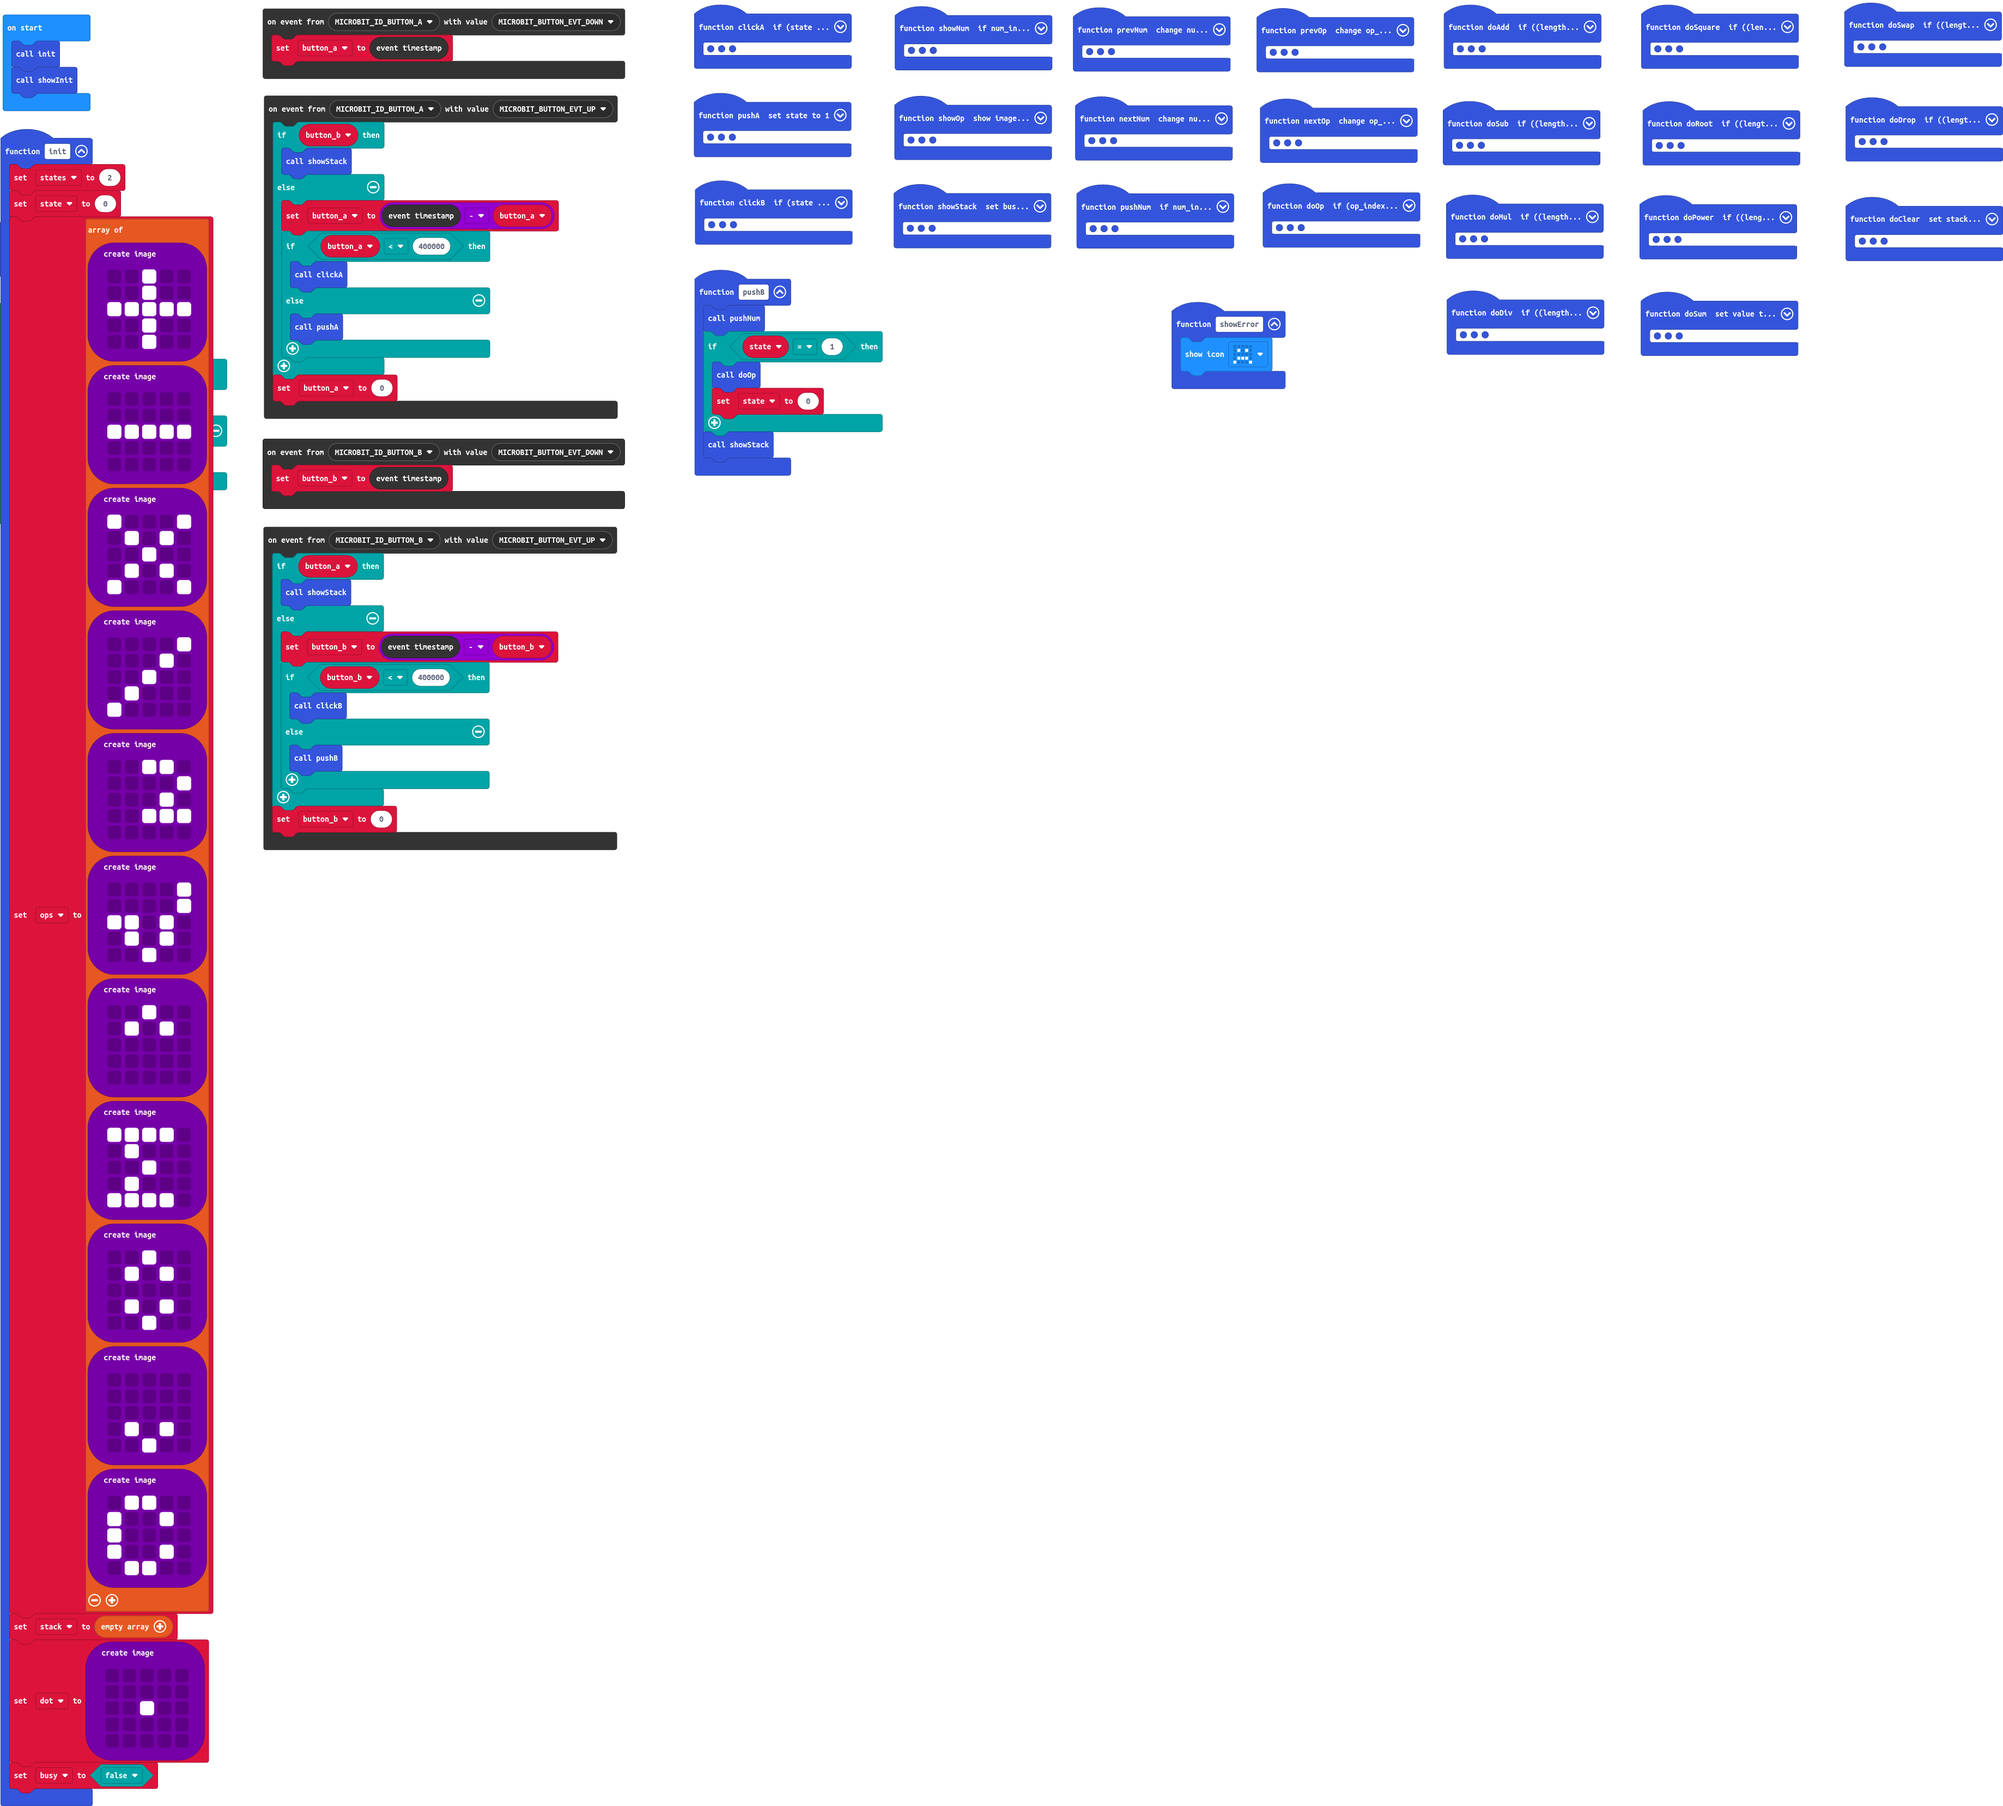
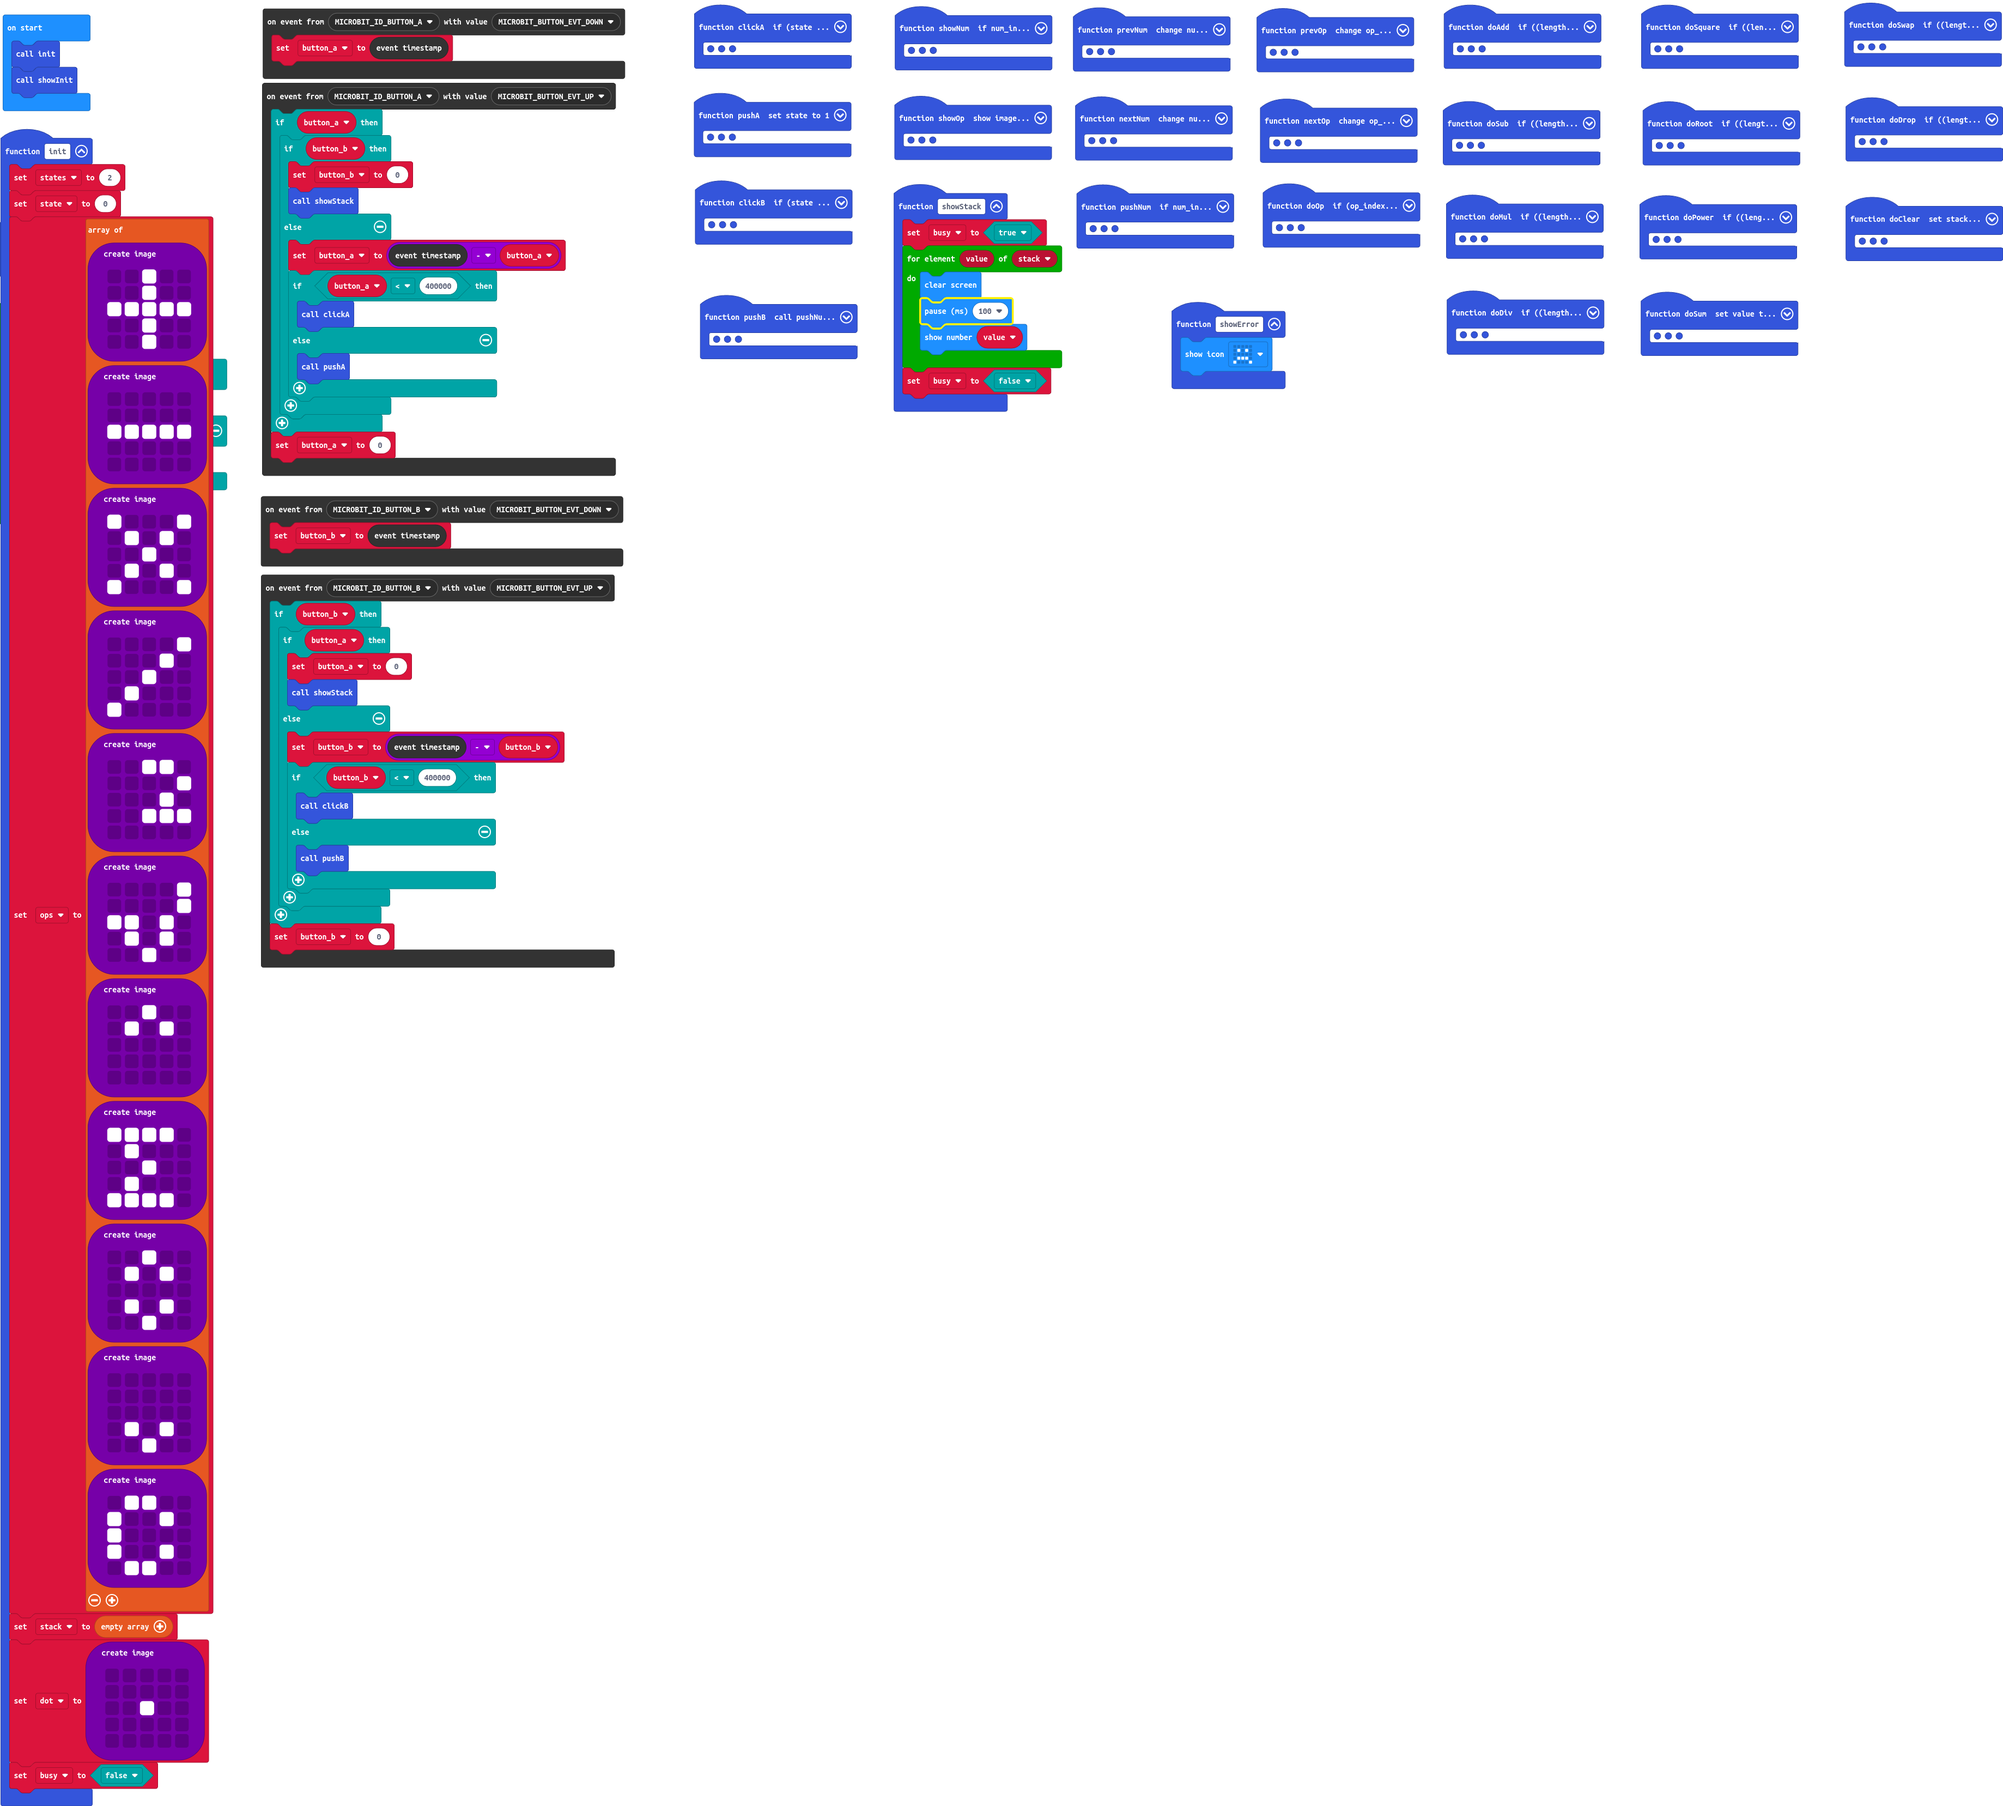
Add some minor tweaks and fixes

Changed region(s): [[0.124, 0.0311, 0.3101, 0.5594], [0.3411, 0.0932, 0.5272, 0.2797]]

diff --git a/main.ts b/main.ts
@@ -6,14 +6,17 @@ function doDrop () {
     }
 }
 control.onEvent(EventBusSource.MICROBIT_ID_BUTTON_A, EventBusValue.MICROBIT_BUTTON_EVT_UP, function () {
-    if (button_b) {
-        showStack()
-    } else {
-        button_a = control.eventTimestamp() - button_a
-        if (button_a < 400000) {
-            clickA()
+    if (button_a) {
+        if (button_b) {
+            button_b = 0
+            showStack()
         } else {
-            pushA()
+            button_a = control.eventTimestamp() - button_a
+            if (button_a < 400000) {
+                clickA()
+            } else {
+                pushA()
+            }
         }
     }
     button_a = 0
@@ -107,14 +110,17 @@ function pushA () {
     state = 1
 }
 control.onEvent(EventBusSource.MICROBIT_ID_BUTTON_B, EventBusValue.MICROBIT_BUTTON_EVT_UP, function () {
-    if (button_a) {
-        showStack()
-    } else {
-        button_b = control.eventTimestamp() - button_b
-        if (button_b < 400000) {
-            clickB()
+    if (button_b) {
+        if (button_a) {
+            button_a = 0
+            showStack()
         } else {
-            pushB()
+            button_b = control.eventTimestamp() - button_b
+            if (button_b < 400000) {
+                clickB()
+            } else {
+                pushB()
+            }
         }
     }
     button_b = 0
@@ -323,6 +329,8 @@ function doPower () {
 function showStack () {
     busy = true
     for (let value of stack) {
+        basic.clearScreen()
+        basic.pause(100)
         basic.showNumber(value)
     }
     busy = false
@@ -338,8 +346,8 @@ let value2 = 0
 let value1 = 0
 let op_index = 0
 let ops: Image[] = []
-let button_a = 0
 let button_b = 0
+let button_a = 0
 let stack: number[] = []
 init()
 showInit()
